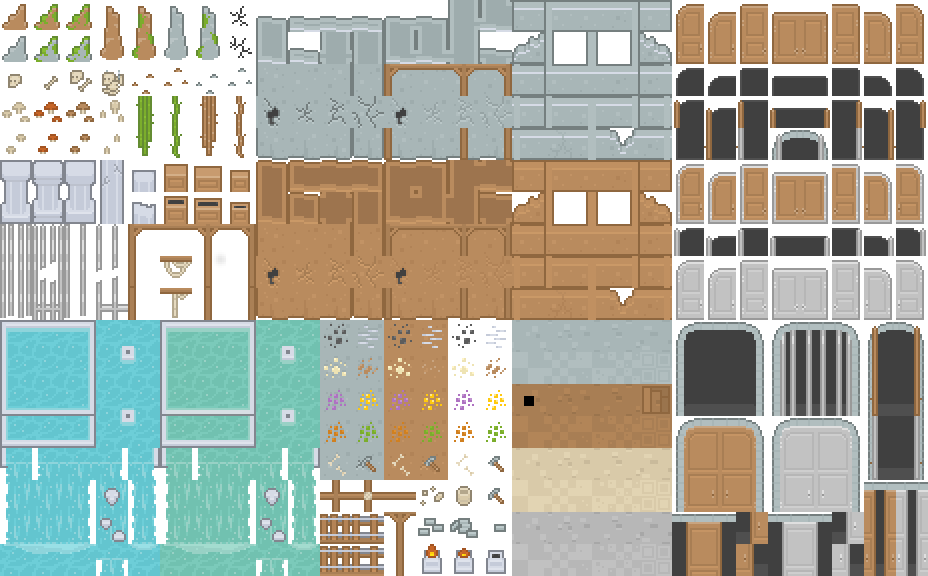
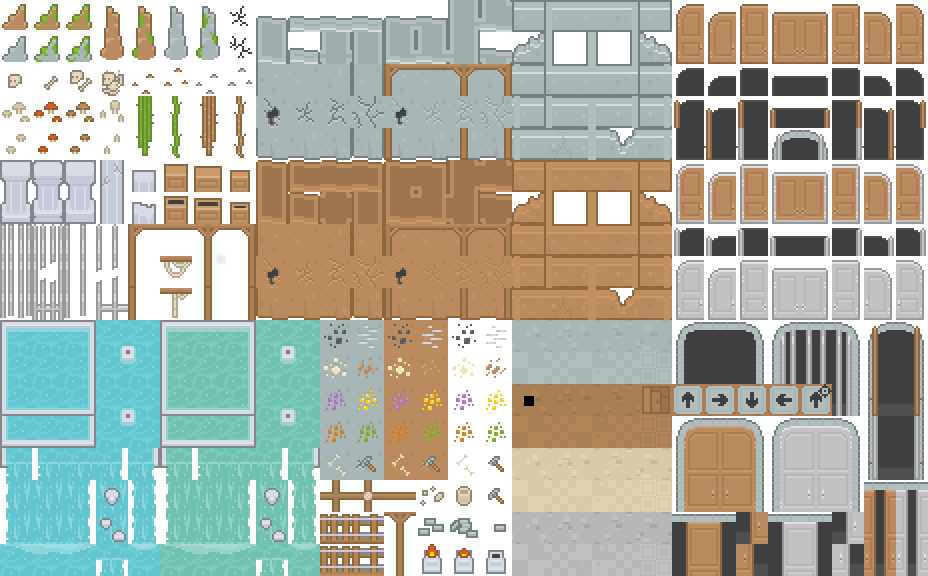
Intro room

Changed region(s): [[0.7188, 0.6562, 0.9062, 0.75]]

diff --git a/utils/constants.js b/utils/constants.js
@@ -13,7 +13,8 @@
    Constants.TILE_SIZE = 32;
 
    Constants.ROOM_TYPES = Enum([
-      'random', 'store', 'treasure', 'weapon', 'armor', 'combat', 'npc', 'boss', 'puzzle', 'sign'
+      'random', 'store', 'treasure', 'weapon', 'armor', 'combat', 'npc', 'boss', 'puzzle', 'sign',
+      'intro'
    ]);
 
    var spriteToTile = function(row, col) {
@@ -25,8 +26,23 @@
       floor: spriteToTile(12, 18),
       floor_blocked: spriteToTile(12, 16),
       wall: spriteToTile(12, 17),
-      stairs: spriteToTile(12, 20)
+      stairs: spriteToTile(12, 20),
+      up_arrow: spriteToTile(12, 21),
+      right_arrow: spriteToTile(12, 22),
+      down_arrow: spriteToTile(12, 23),
+      left_arrow: spriteToTile(12, 24),
+      attack_arrow: spriteToTile(12, 25)
    });
+
+   Constants.UNBLOCKED_TILES = [
+      Constants.BG_TILES.floor,
+      Constants.BG_TILES.empty,
+      Constants.BG_TILES.up_arrow,
+      Constants.BG_TILES.right_arrow,
+      Constants.BG_TILES.down_arrow,
+      Constants.BG_TILES.left_arrow,
+      Constants.BG_TILES.attack_arrow
+   ];
 
    Constants.FG_TILES = Enum({
       empty: -1,
@@ -108,6 +124,7 @@
       "final_boss.png",
       "monster1.gif",
       "monster2.gif",
+      "monster2-rip.gif",
       "monster1slow.gif",
       "monster2slow.gif",
       "monster1poison.gif",

diff --git a/classes/dungeon_generator.js b/classes/dungeon_generator.js
@@ -6,13 +6,14 @@
  var curr_difficulty = 0;
 ClassManager.create('DungeonGenerator', function(game) {
    return Class.create(Object, {
-      initialize: function(numRooms) {
+      initialize: function(level, numRooms) {
          this.linearity = 1;
          this.numRooms = numRooms || 10;
          this.roomsCreated = 0;
          this.roomCount = 0;
          this.unexploredRooms = 0;
          this.hasCreatedBossRoom = false;
+         this.isFirstLevel = (level === 1);
 
          // TODO: fix this it sux :(
          this.difficulty = global_difficulty[curr_level++];
@@ -94,6 +95,9 @@ ClassManager.create('DungeonGenerator', function(game) {
                depth: 0
             };
          }
+         if (this.isFirstLevel) {
+            roomObj.type = C.ROOM_TYPES.intro;
+         }
          var roomType = roomObj.type;
 
          var numExitBounds = { min: 1, max: 4 };
@@ -146,6 +150,9 @@ ClassManager.create('DungeonGenerator', function(game) {
                break;
             case C.ROOM_TYPES.sign:
                generator = new SignRoomGenerator();
+               break;
+            case C.ROOM_TYPES.intro:
+               generator = new IntroRoomGenerator();
                break;
             default:
                break;

diff --git a/index.html b/index.html
@@ -32,6 +32,7 @@
    <script src="classes/room.js"></script>
    <script src="classes/room_generators/puzzle_data.js"></script>
    <script src="classes/room_generators/room_generator.js"></script>
+   <script src="classes/room_generators/room_generator_intro.js"></script>
    <script src="classes/room_generators/room_generator_item.js"></script>
    <script src="classes/room_generators/room_generator_weapon.js"></script>
    <script src="classes/room_generators/room_generator_armor.js"></script>
@@ -48,6 +49,7 @@
    <script src="classes/enemies/waiting_enemy.js"></script>
    <script src="classes/enemies/bat.js"></script>
    <script src="classes/enemies/slime.js"></script>
+   <script src="classes/enemies/dummy.js"></script>
    <script src="classes/enemies/boss.js"></script>
    <script src="classes/enemies/final_boss.js"></script>
    <script src="classes/enemies/simple_boss.js"></script>

diff --git a/classes/room_generators/room_generator_intro.js b/classes/room_generators/room_generator_intro.js
@@ -1,0 +1,25 @@
+/* 
+ * The ItemRoomGenerator class randomly creates a room centered around combat
+ */
+(function(window) {
+   var defaults = {};
+
+   window.IntroRoomGenerator = Class.create(RoomGenerator, {
+      createFloor: function(params) {
+         var background = RoomGenerator.prototype.createFloor.apply(this, arguments);
+
+         this.setTile(background,  0, -1, C.BG_TILES.up_arrow);
+         this.setTile(background,  0,  1, C.BG_TILES.down_arrow);
+         this.setTile(background, -1,  0, C.BG_TILES.left_arrow);
+         this.setTile(background,  1,  0, C.BG_TILES.right_arrow);
+
+         this.setTile(background,  3, -3, C.BG_TILES.attack_arrow);
+
+         return background;
+      },
+
+      populateRoom: function(room) {
+         this.addCharacter(room, new Classes.Dummy(), 3, -4);
+      }
+   });
+})(window);

diff --git a/scenes/game.js b/scenes/game.js
@@ -22,6 +22,7 @@
          if (Game.dungeonGenerator) {
             Game.dungeonGenerator.destroy();
 
+            Scenes.Transition.clearChanges();
             DifficultyManager.moveX(1);
             game.pushScene(new Scenes.Transition(level ++));
          }
@@ -29,7 +30,7 @@
          // Create first room
          Game.player.position.x = Game.player.position.y = 0;
          Game.player.snapToPosition();
-         Game.dungeonGenerator = new Classes.DungeonGenerator();
+         Game.dungeonGenerator = new Classes.DungeonGenerator(level);
          Game.setRoom(Game.dungeonGenerator.createDungeon());
       };
 

diff --git a/classes/room.js b/classes/room.js
@@ -226,7 +226,7 @@ ClassManager.create('Room', function(game) {
          x += Math.floor(C.MAP_SIZE / 2);
          y += Math.floor(C.MAP_SIZE / 2);
 
-         if (this.tiles[y][x] !== C.BG_TILES.floor && this.tiles[y][x] !== C.BG_TILES.empty) {
+         if (C.UNBLOCKED_TILES.indexOf(this.tiles[y][x]) < 0) {
             return false;
          }
 

diff --git a/classes/enemies/dummy.js b/classes/enemies/dummy.js
@@ -1,0 +1,11 @@
+/*
+ * The Dummy class doesn't fight back
+ */
+ClassManager.create('Dummy', function(game) {
+   return Class.create(Classes['Enemy'], {
+      sprite: "monster2-rip.gif",
+      initial_health: 100,
+      act: function() {
+      }
+   });
+});

diff --git a/scenes/transition.js b/scenes/transition.js
@@ -45,3 +45,7 @@ Scenes.Transition.recentChanges = [];
 Scenes.Transition.logChange = function(description) {
    Scenes.Transition.recentChanges.push(description);
 }
+
+Scenes.Transition.clearChanges = function() {
+   Scenes.Transition.recentChanges = [];
+}
